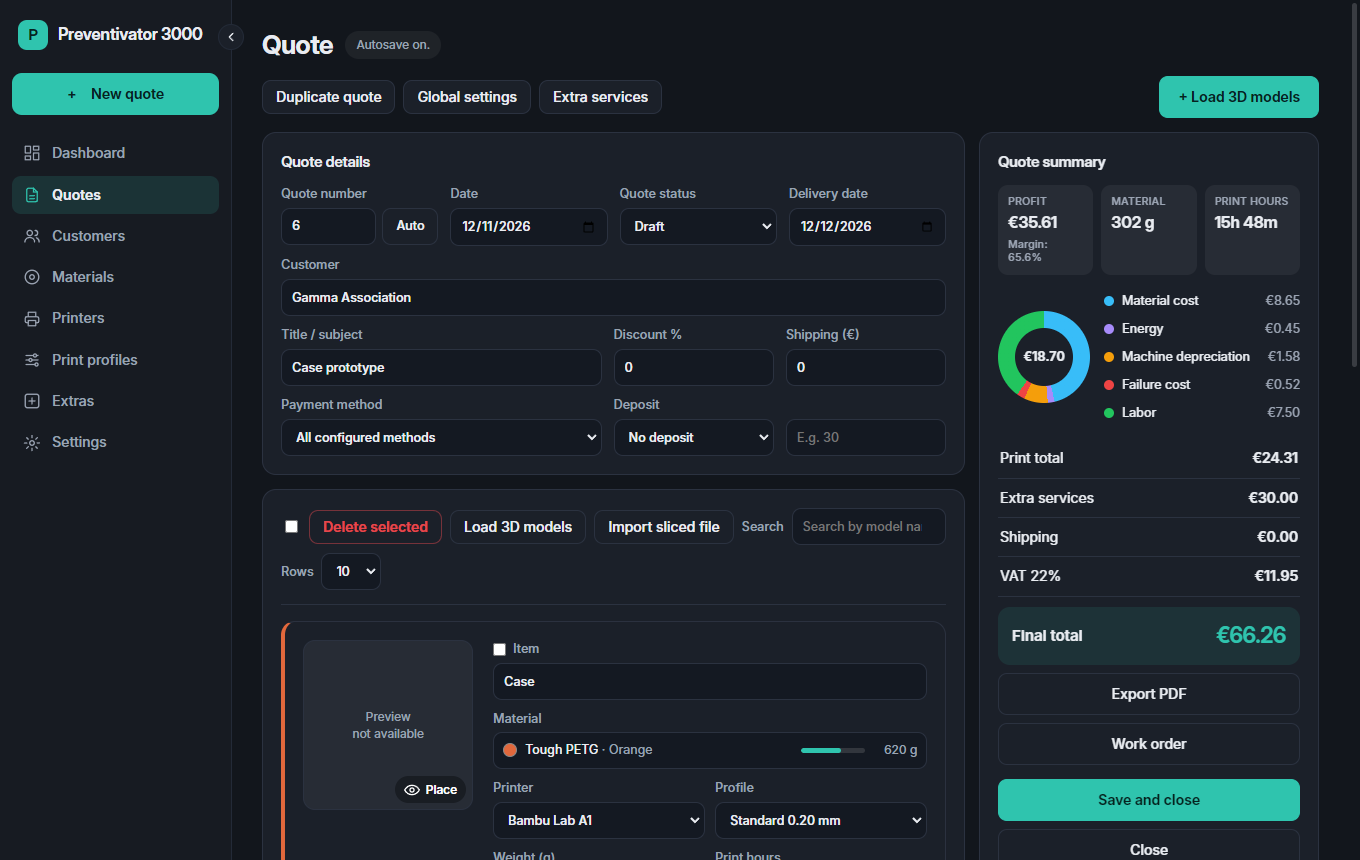
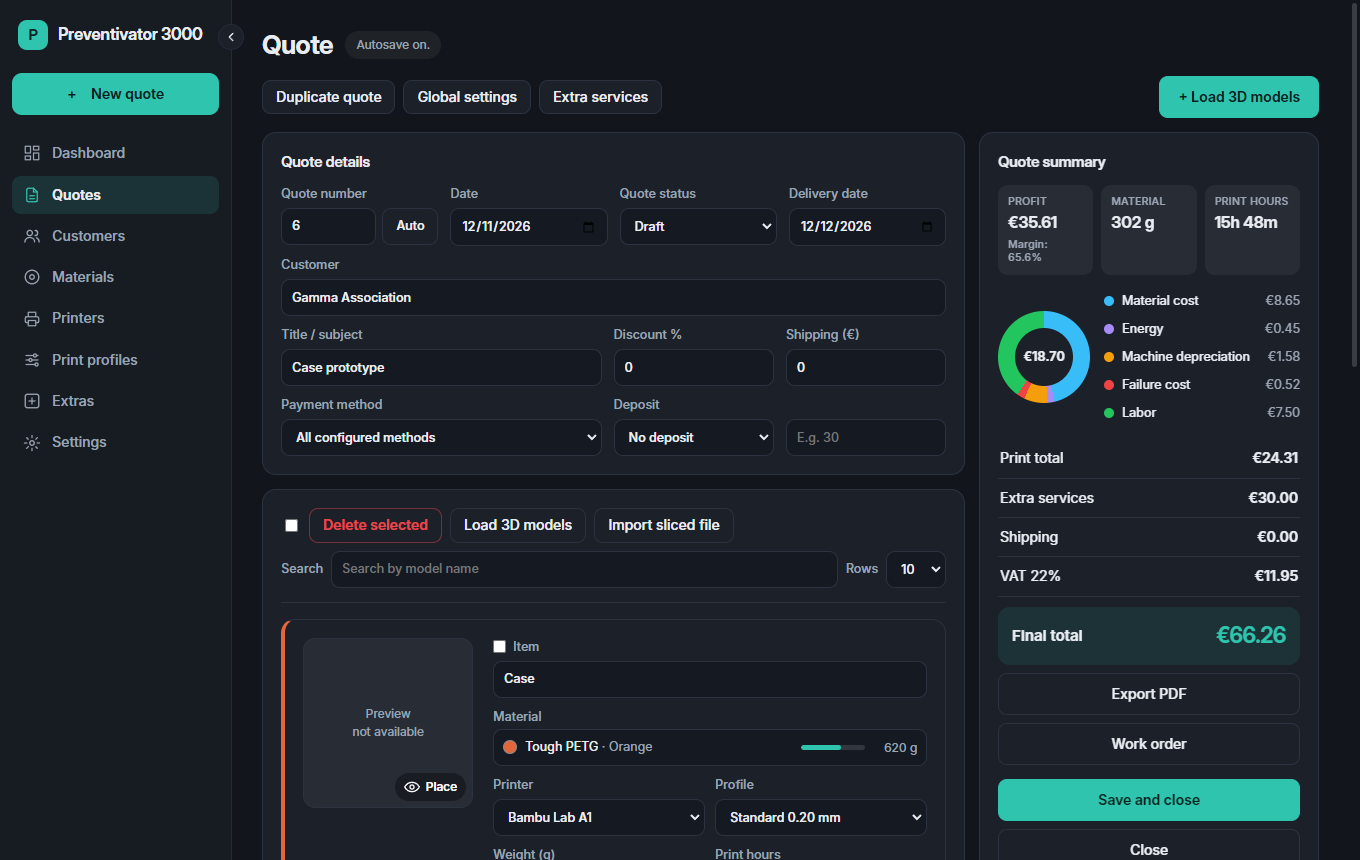
V1.0: corregge la barra degli oggetti nel preventivo (interno 3000.1.0.1)

diff --git a/index.html b/index.html
@@ -1,5 +1,5 @@
 <!DOCTYPE html>
-<!--APP_VER=3000.1.0-->
+<!--APP_VER=3000.1.0.1-->
 <html lang="it"><head><meta charset="utf-8"><title>Preventivator 3000</title>
 <meta name="viewport" content="width=device-width,initial-scale=1">
 <style>
@@ -269,7 +269,7 @@ label input,label select,label textarea{margin-top:5px}
 /* preventivo */
 .qe h2{letter-spacing:-.02em}.qtool{margin-bottom:14px}
 .pillx{background:var(--tint2);border-color:transparent}
-.qtb{padding-bottom:14px;margin-bottom:16px}.qtb .inl input,.qtb .inl select{margin-top:0}
+.qtb{padding-bottom:14px;margin-bottom:16px}.qtb .inl input,.qtb .inl select{margin-top:0}.qtb .inl{min-width:320px}.qtb .inl:last-child{min-width:0}
 .qrow label>div>button{margin-top:5px;min-height:37px}.crow button{white-space:nowrap;flex:none}.crow input{margin-top:0}
 #dlg .bar:last-child{margin-bottom:0}
 .itc{gap:18px;border-radius:14px}
@@ -1052,8 +1052,8 @@ function sett(){const S=db.settings;
  <div class=g3>${f('paypal','PayPal.Me (nome utente o link)','text')}${f('satispay','Satispay (link di pagamento o numero)','text')}${f('iban','IBAN per bonifico','text')}${f('holder','Intestatario conto','text')}${f('bank','Banca (facoltativo)','text')}</div>
  <h3>Backup</h3><p class=mu>I dati sono salvati in questo browser. Esporta un backup ogni tanto.</p>
  <button onclick="bk()">Esporta backup</button> <label style="display:inline-block"><span class=mu>Importa backup</span><input type=file accept=".json" onchange="imp(this)"></label><div id=slcfg></div><div id=otacfg></div>`;}
-/* Numero interno 3000.x.y mostrato come Vx.y: deve restare piu' alto delle vecchie versioni 2026.* */
-const vv=x=>'V'+String(x??'').replace(/^v/i,'').replace(/^3000\./,'');
+/* Numero interno 3000.x.y[.z] mostrato come Vx.y: deve restare piu' alto delle vecchie versioni 2026.*; z sono le correzioni che non cambiano il nome */
+const vv=x=>'V'+String(x??'').replace(/^v/i,'').replace(/^3000\.(\d+)\.(\d+)(\.\d+)*$/,'$1.$2');
 async function otaSettings(){
  const el=$('#otacfg');if(!el)return;
  if(!(window.api&&api.otaInfo)){el.innerHTML='<h3 style="margin-top:22px">Aggiornamenti</h3><div class=card><p class=mu>Gli aggiornamenti automatici sono disponibili solo nell\'app installata. Se hai appena aggiornato, serve l\'archivio completo con la versione 2 del programma.</p></div>';return}
